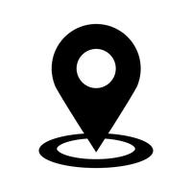
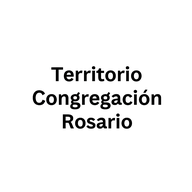
v53: Reemplazar todos los iconos con la imagen oficial de TerRosa y eliminar JW_Logo viejo

Changed region(s): [[0.1562, 0.125, 0.8438, 0.875]]

diff --git a/index.html b/index.html
@@ -7,9 +7,10 @@
   <title>TerRosa — Territorio Rosario</title>
 
   <!-- PWA & Iconos -->
-  <link rel="icon" href="icon-192.png" type="image/png" />
-  <link rel="apple-touch-icon" href="icon-192.png" />
-  <link rel="manifest" href="manifest.json" />
+  <link rel="icon" href="icon-192.png?v=53" type="image/png" />
+  <link rel="apple-touch-icon" href="icon-192.png?v=53" />
+  <link rel="apple-touch-icon" sizes="512x512" href="icon-512.png?v=53" />
+  <link rel="manifest" href="manifest.json?v=53" />
   <meta name="theme-color" content="#e5e3df" />
   <meta name="apple-mobile-web-app-capable" content="yes" />
   <meta name="apple-mobile-web-app-status-bar-style" content="default" />
@@ -27,7 +28,7 @@
   <link rel="stylesheet" href="https://unpkg.com/leaflet-draw@1.0.4/dist/leaflet.draw.css" />
 
   <!-- Estilos del Proyecto Modularizados -->
-  <link rel="stylesheet" href="css/styles.css?v=52" />
+  <link rel="stylesheet" href="css/styles.css?v=53" />
 </head>
 
 <body>

diff --git a/sw.js b/sw.js
@@ -2,7 +2,7 @@
 // === SERVICE WORKER (PWA) ===
 // ==============================================================================================================================
 
-const CACHE_NAME = 'territorios-cache-v52';
+const CACHE_NAME = 'territorios-cache-v53';
 const ASSETS_TO_CACHE = [
   './',
   './index.html',
